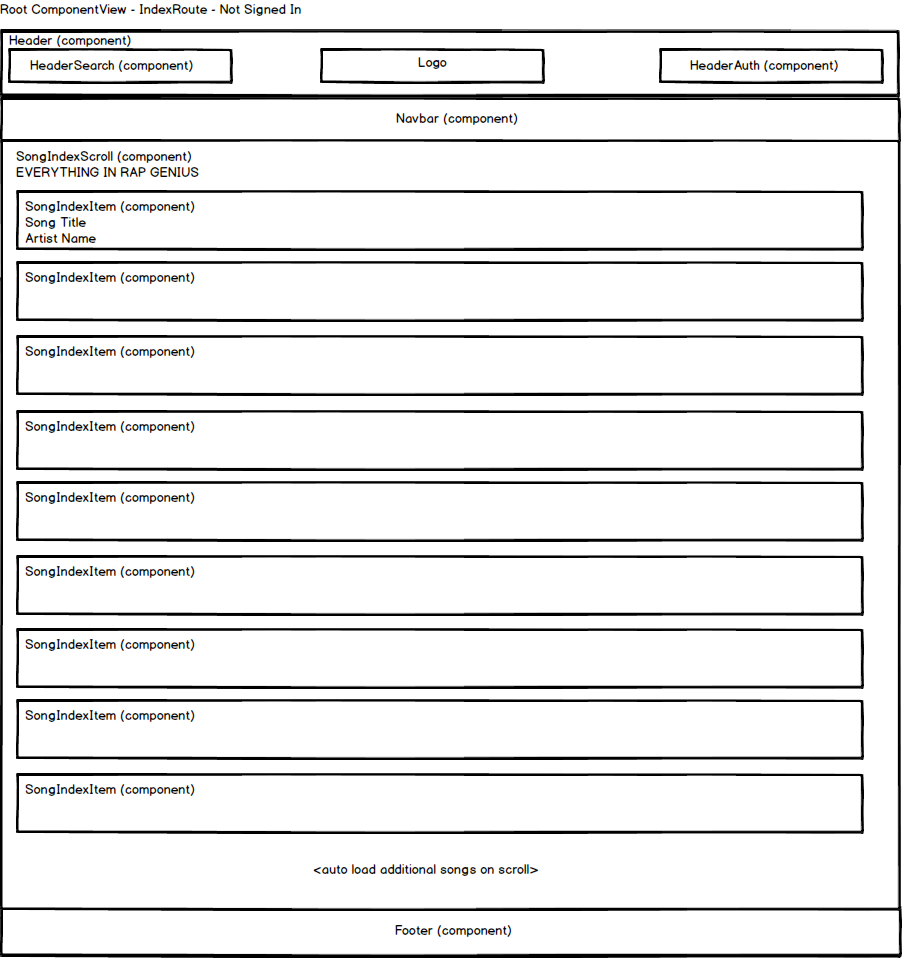
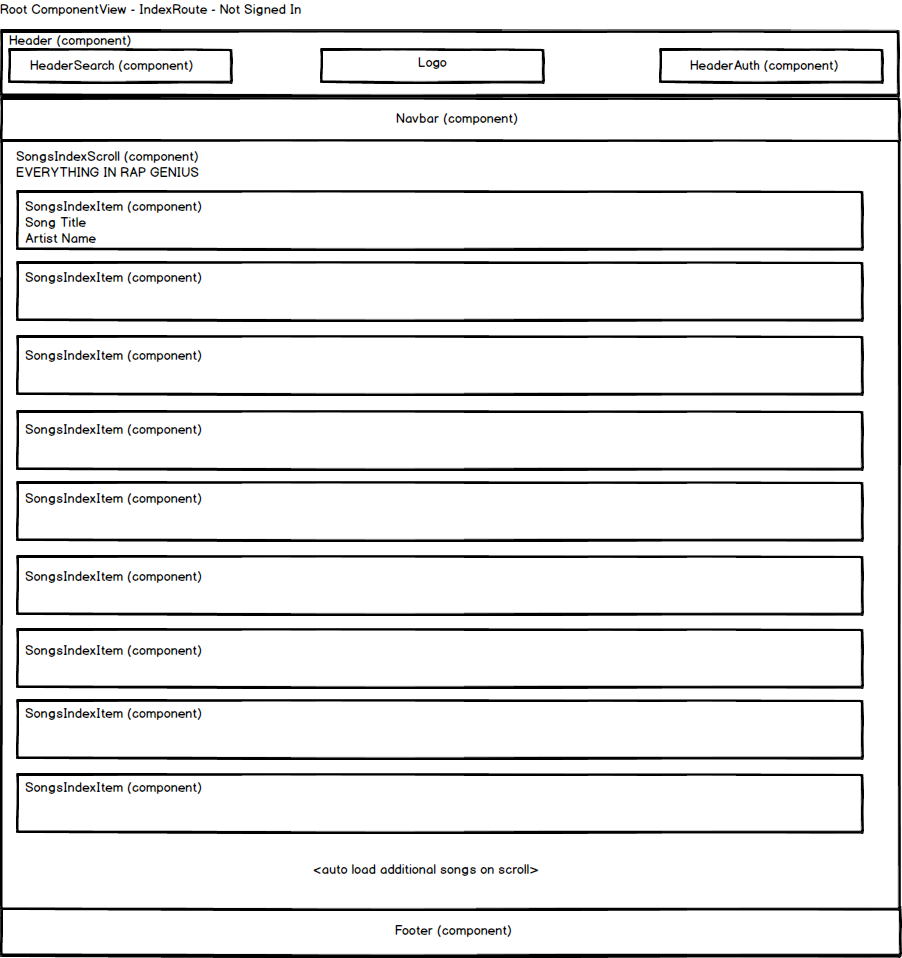
added flux cycles

diff --git a/docs/flux-cycles.md b/docs/flux-cycles.md
@@ -5,125 +5,137 @@ be sub-categories, and each action is listed with the sequence of events
 that result from its invocation, ending with the API or store. Finally,
 store listeners are listed at the end.
 
-You should be able to use this document trace an **action** starting
-with where it was invoked, through the **API**/**store** involved, and
-finally to the **components** that update as a result. This is important
-because once you start implementing your flux loops, that's precisely
-what you'll need to do.
+## Song Cycles
+
+### Songs API Request Actions
+
+* `fetchTopSongs`
+  0. invoked from `SongsDisplay` `didMount`
+  0. `GET /api/songs` is called with query params.
+  0. `receiveSongs` is set as the callback.
 
 
-## Note Cycles
+* `fetchNextTopSongs`
+  0. invoked from `SongsDisplay` `onScroll`
+  0. `GET /api/songs` is called with query params.
+  0. `receiveNextSongs` is set as the callback.
 
-### Notes API Request Actions
 
-* `fetchAllNotes`
-  0. invoked from `NotesIndex` `didMount`/`willReceiveProps`
-  0. `GET /api/notes` is called.
-  0. `receiveAllNotes` is set as the callback.
+* `fetchAlphabeticalSongs`
+  0. invoked from `SongsIndexScroll` `didMount`
+  0. `GET /api/songs` is called.
+  0. `receiveSongs` is set as the callback.
 
-* `createNote`
-  0. invoked from new note button `onClick`
-  0. `POST /api/notes` is called.
-  0. `receiveSingleNote` is set as the callback.
 
-* `fetchSingleNote`
-  0. invoked from `NoteDetail` `didMount`/`willReceiveProps`
-  0. `GET /api/notes/:id` is called.
-  0. `receiveSingleNote` is set as the callback.
+* `fetchNextAlphabeticalSongs`
+  0. invoked from `SongsIndexScroll` `onScroll`
+  0. `GET /api/songs` is called.
+  0. `receiveNextSongs` is set as the callback.
 
-* `updateNote`
-  0. invoked from `NoteForm` `onSubmit`
-  0. `POST /api/notes` is called.
-  0. `receiveSingleNote` is set as the callback.
 
-* `destroyNote`
-  0. invoked from delete note button `onClick`
-  0. `DELETE /api/notes/:id` is called.
-  0. `removeNote` is set as the callback.
+* `fetchSingleSong(id)`
+  0. invoked from `Song` `didMount`
+  0. `GET /api/songs/:songId` is called.
+  0. `receiveSingleSong` is set as the callback.
 
-### Notes API Response Actions
 
-* `receiveAllNotes`
+* `createSong(song)`
+  0. invoked from `SongForm` `onSubmit`
+  0. `POST /api/songs` is called.
+  0. `receiveSingleSong` is set as the callback.
+
+### Songs API Response Actions
+
+* `receiveSongs(songs)`
   0. invoked from an API callback.
-  0. `Note` store updates `_notes` and emits change.
+  0. `Song` store replaces `_songs` and emits change.
 
-* `receiveSingleNote`
+
+* `receiveSingleSong(song)`
   0. invoked from an API callback.
-  0. `Note` store updates `_notes[id]` and emits change.
+  0. `Song` store replaces `_songs[id]` and emits change.
 
-* `removeNote`
+
+* `receiveNextSongs(songs)`
   0. invoked from an API callback.
-  0. `Note` store removes `_notes[id]` and emits change.
+  0. `Song` store appends received songs to `_songs` and emits change.
 
-### Store Listeners
+### Song Store Listeners
+* `SongsDisplay` listens to the `Song` Store
+* `SongsIndex` listens to the `Song` Store
+* `Song` listens to the `Song` Store
 
-* `NotesIndex` component listens to `Note` store.
-* `NoteDetail` component listens to `Note` store.
+## Annotation Cycles
+
+### Annotation API Request Actions
+
+* `fetchAnnotation(id)`
+  0. invoked from `Song` `didMount`/`willReceiveProps`
+  0. `GET /api/annotations` is called.
+  0. `receiveAnnotation` is set as the callback.
 
 
-## Notebook Cycles
+* `createAnnotation`
+  0. invoked from `AnnotationForm` `onSubmit`
+  0. `POST /api/annotations` is called.
+  0. `receiveAnnotation` is set as the callback.
 
-### Notebooks API Request Actions
 
-* `fetchAllNotebooks`
-  0. invoked from `NotebooksIndex` `didMount`/`willReceiveProps`
-  0. `GET /api/notebooks` is called.
-  0. `receiveAllNotebooks` is set as the callback.
+* `updateAnnotation(id)`
+  0. invoked from `AnnotationEditForm` `onSubmit`
+  0. `PATCH /api/annotations/:id` is called.
+  0. `receiveAnnotation` is set as the callback.
 
-* `createNotebook`
-  0. invoked from new notebook button `onClick`
-  0. `POST /api/notebooks` is called.
-  0. `receiveSingleNotebook` is set as the callback.
 
-* `fetchSingleNotebook`
-  0. invoked from `NotebookDetail` `didMount`/`willReceiveProps`
-  0. `GET /api/notebooks/:id` is called.
-  0. `receiveSingleNotebook` is set as the callback.
+* `destroyAnnotation(id)`
+  0. invoked from `AnnotationEditForm` `onSubmit`
+  0. `DELETE /api/annotations/:id` is called.
+  0. `removeAnnotation` is set as the callback.
 
-* `updateNotebook`
-  0. invoked from `NotebookForm` `onSubmit`
-  0. `POST /api/notebooks` is called.
-  0. `receiveSingleNotebook` is set as the callback.
+### Annotation API Response Actions
 
-* `destroyNotebook`
-  0. invoked from delete notebook button `onClick`
-  0. `DELETE /api/notebooks/:id` is called.
-  0. `removeNotebook` is set as the callback.
+* `receiveAnnotation`
+  0. invoked from API callback.
+  0. `Annotation` store updates `_annotations[id]` and emits change.
 
-### Notebooks API Response Actions
 
-* `receiveAllNotebooks`
+* `removeAnnotation`
+  0. invoked from API callback.
+  0. `Annotation` store removes `_annotations[id]` and emits change.
+
+### Annotation Store Listeners
+* `Annotation` listens to the `Annotation` store.
+
+## Comments Cycles
+
+### Comments API Request Actions
+
+* `createComment`
+  0. invoked from `CommentForm` `onSubmit`
+  0. `POST /api/comments` is called.
+  0. `receiveComment` is set as the callback.
+
+
+* `editComment`
+  0. invoked from `CommentEditForm` `onSubmit`
+  0. `PATCH /api/comments/:id` is called.
+  0. `receiveComment` is set as the callback.
+
+
+* `destroyComment`
+  0. invoked from `CommentIndexItem` delete button `onClick`
+  0. `DELETE /api/comments/:id` is called.
+  0. `removeComment` is set as the callback.
+
+### Comments API Response Actions
+
+* `receiveComment`
   0. invoked from an API callback.
-  0. `Notebook` store updates `_notebooks` and emits change.
+  0. CommentActions dispatches payload; actionType corresponds to comment subject type.
+  0. `Song` or `Annotation` store updates based on type and emits change.
 
-* `receiveSingleNotebook`
+
+* `removeComment`
   0. invoked from an API callback.
-  0. `Notebook` store updates `_notebooks[id]` and emits change.
-
-* `removeNotebook`
-  0. invoked from an API callback.
-  0. `Notebook` store removes `_notebooks[id]` and emits change.
-
-### Store Listeners
-
-* `NotebooksIndex` component listens to `Notebook` store.
-
-
-## SearchSuggestion Cycles
-
-* `fetchSearchSuggestions`
-  0. invoked from `NoteSearchBar` `onChange` when there is text
-  0. `GET /api/notes` is called with `text` param.
-  0. `receiveSearchSuggestions` is set as the callback.
-
-* `receiveSearchSuggestions`
-  0. invoked from an API callback.
-  0. `SearchSuggestion` store updates `_suggestions` and emits change.
-
-* `removeSearchSuggestions`
-  0. invoked from `NoteSearchBar` `onChange` when empty
-  0. `SearchSuggestion` store resets `_suggestions` and emits change.
-
-### Store Listeners
-
-* `SearchBarSuggestions` component listens to `SearchSuggestion` store.
+  0. CommentActions dispatches payload; actionType corresponds to comment subject type.
+  0. `Song` or `Annotation` store removes comment and emits change.

diff --git a/docs/components.md b/docs/components.md
@@ -2,10 +2,6 @@
 
 **Bolded** components are associated with routes.
 
-(:exclamation: Remember, the bolded components are created by their
-associated routes, so the nesting of your bolded components must
-_**exactly**_ match the nesting of your routes.)
-
 * **App**
   * Header
     * HeaderSearch
@@ -20,12 +16,14 @@ _**exactly**_ match the nesting of your routes.)
       * SongDisplayItem
   * **SongsIndexScroll**
     * SongsIndexItem
+  * **SongForm**
   * **Song**
     * SongSplash
     * LyricsDisplay
       * Lyrics
       * CommentIndexScroll
         * CommentForm
+        * CommentEditForm
         * CommentIndexItem
     * **SongInfo**
       * SongInfoStats
@@ -39,6 +37,7 @@ _**exactly**_ match the nesting of your routes.)
       * AnnotationUpvoteForm
       * CommentIndexScroll
         * CommentForm
+        * CommentEditForm
         * CommentIndexItem
   * Footer
 
@@ -47,6 +46,7 @@ _**exactly**_ match the nesting of your routes.)
 * **component:** `App` **path:** `/`
   * **component:** `Home` **path:** index
   * **component:** `SongsIndexScroll` **path:** `songs`
+  * **component:** `SongForm` **path:** `songs/new`
   * **component:** `Song` **path:** `songs/:songId`
     * **component:** `SongInfo` **path:** index
     * **component:** `Annotation` **path:** `:annotationId`

diff --git a/docs/views.md b/docs/views.md
@@ -15,14 +15,31 @@
 ## Header Logged In
 ![header-logged-in]
 
-## SongIndex
+## New Song
+![new-song]
+
+## Song Index
 ![songs-index]
 
 ## Song
 ![song]
 
 ## Song Annotation
+Suggestion
+
+![song-annotation-suggest]
+
+Creation
+
+![song-annotation-new]
+
+Viewing
+
 ![song-annotation]
+
+Editing
+
+![song-annotation-edit]
 
 [home]: ./wireframes/home_logged_out.png
 [navbar-dropdown]: ./wireframes/navbar_dropdown.png
@@ -30,5 +47,10 @@
 [new-session]: ./wireframes/new_session.png
 [header-logged-in]: ./wireframes/header_logged_in.png
 [songs-index]: ./wireframes/songs_index.png
+[new-song]: ./wireframes/new_song.png
+
 [song]: ./wireframes/song.png
+[song-annotation-suggest]: ./wireframes/song_annotation_suggest.png
+[song-annotation-new]: ./wireframes/song_annotation_new.png
 [song-annotation]: ./wireframes/song_annotation_mode.png
+[song-annotation-edit]: ./wireframes/song_annotation_edit.png
